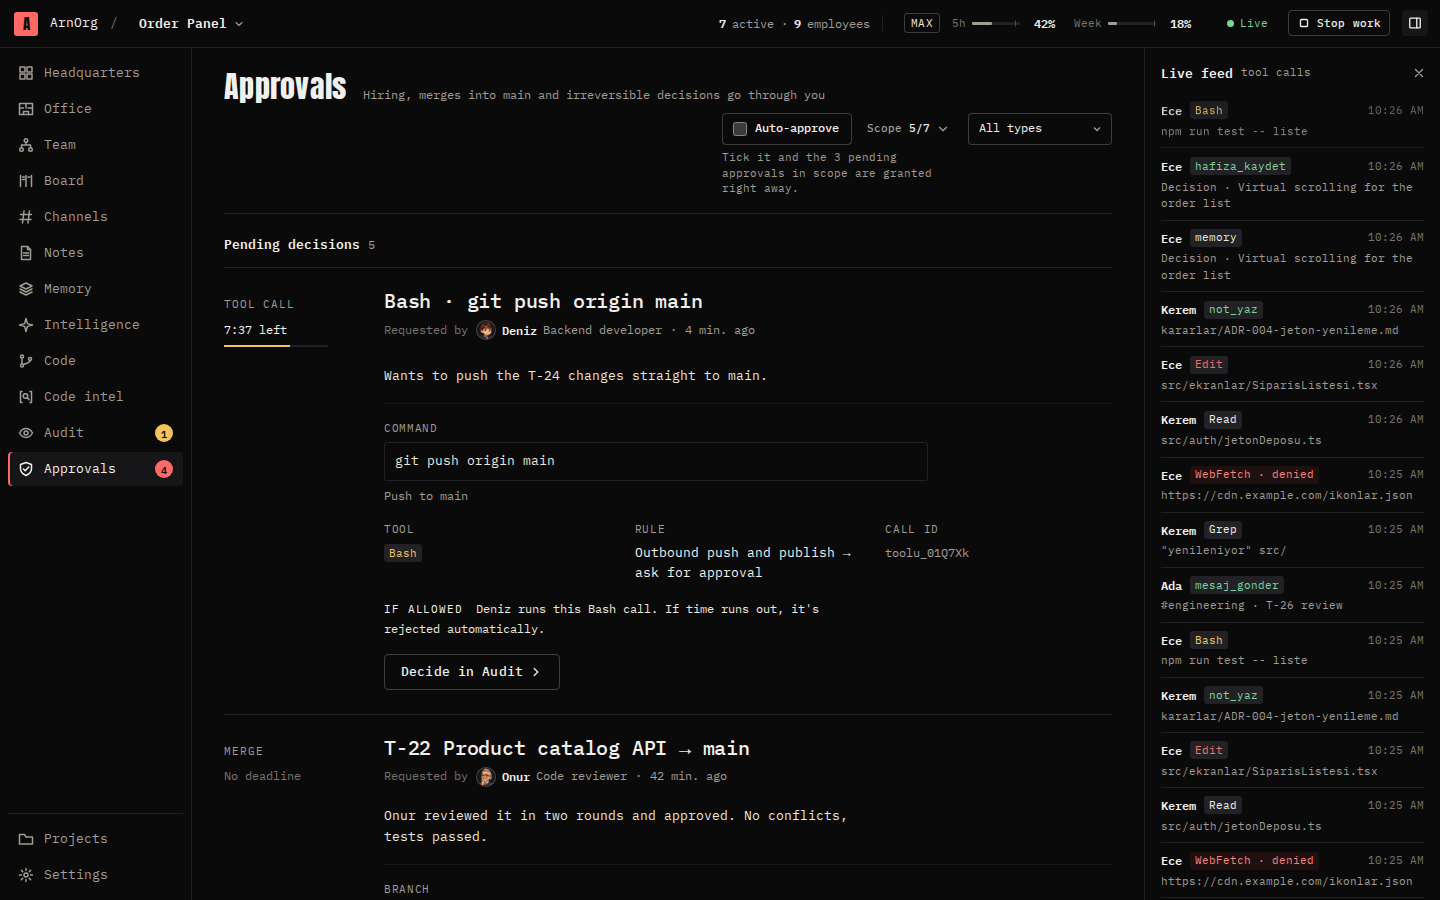
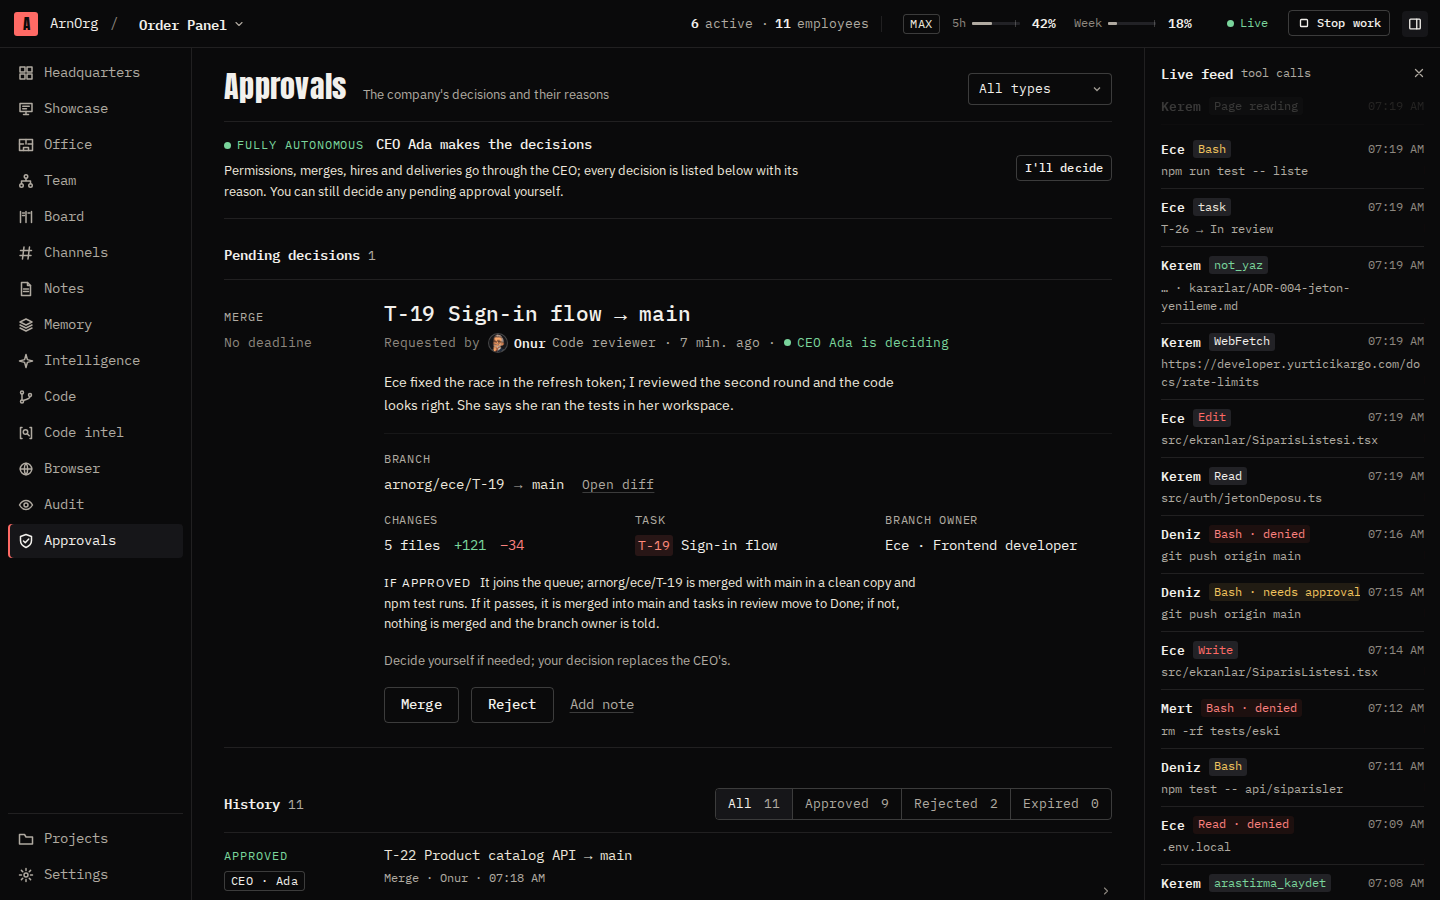
Sürüm 0.0.7
CEO karar verir (tam otonom) ve Tanıtım alanı. Sürüm notları docs/surumler/v0.0.7.md; README'lerde tam otonom ve Tanıtım maddeleri, güncellemelerin bu depodan geldiği, Tanıtım ve yeni Onaylar ekran görüntüleri (TR/EN).

diff --git a/paketler/ortak/src/index.ts b/paketler/ortak/src/index.ts
@@ -2,7 +2,7 @@
 // Çekirdek (arnorg-server) ile Stüdyo (arayüz) arasında paylaşılan tipler ve sabitler.
 // Bu dosya tek başına durur; başka dosyaya göreli import yapmaz.
 
-export const ARNORG_SURUMU = "0.0.6";
+export const ARNORG_SURUMU = "0.0.7";
 
 // ---------------------------------------------------------------------------
 // Genel

diff --git a/docs/surumler/v0.0.7.md b/docs/surumler/v0.0.7.md
@@ -1,0 +1,97 @@
+ArnOrg runs Claude Code agents like a software company: you open a project and tell the CEO what you want; the CEO agent writes the plan, hires the team, hands out the work and reports back to you. With this release the CEO also makes the decisions, so the company runs on its own and you see the results. Every project also gets a Showcase page with its README.
+
+[Türkçe aşağıda](#türkçe)
+
+## Download
+
+| System | File | Install |
+|---|---|---|
+| Windows 10/11 · x64 | `ArnOrg-Kurulum-0.0.7-x64.exe` | Recommended. Setup wizard; you can choose the install folder |
+| Windows · x64, managed deployment | `ArnOrg-0.0.7-x64.msi` | For bulk installs (no automatic updates) |
+| Linux · x64, any distribution | `ArnOrg-0.0.7-x86_64.AppImage` | No install: make it executable with `chmod +x` and run it |
+| Debian, Ubuntu · x64 | `ArnOrg-0.0.7-amd64.deb` | `sudo apt install ./ArnOrg-0.0.7-amd64.deb` |
+| Fedora, RHEL, openSUSE · x64 | `ArnOrg-0.0.7-x86_64.rpm` | `sudo dnf install ./ArnOrg-0.0.7-x86_64.rpm` |
+| Linux · arm64 | `ArnOrg-0.0.7-arm64.AppImage`, `ArnOrg-0.0.7-arm64.deb`, `ArnOrg-0.0.7-aarch64.rpm` | Same as x64 |
+
+The `latest*.yml` and `.blockmap` files are for updates; you don't need to download them.
+
+## New in 0.0.7
+
+- **The CEO decides, you see the results.** Projects now run fully autonomously by default, existing projects included:
+  - Permissions, merges, hires and the other approvals go to the CEO, who decides each one and writes down why.
+  - Your employees' requests reach the CEO as messages: tool permissions such as `git push`, merge requests, the CTO's hiring proposals, their questions and token ceilings. The CEO reads the change before approving a merge.
+  - The CEO's own proposals (hiring, letting someone go, the constitution, merges) take effect at once. A merge still has to pass the quality gate.
+  - A delivery reaches you as a result: a pop-up with what was done and how to try it, while the CEO moves on to the next goal. If something should change, tell the CEO on Headquarters.
+  - The CEO comes to you only for what a person has to do: sign-ins, payments, external accounts.
+  - **Approvals** shows who decides at the top. Every decision carries a label (the CEO's name, Board or Auto) and its reason. You can decide any pending approval yourself; your decision replaces the CEO's.
+  - If you'd rather decide yourself, go to **Project settings → Decision authority → The board decides**. Auto-approve works in that mode as before.
+  - If the CEO is paused or stops with an error, whatever waits on it comes to you.
+- **Showcase.** A new page, second in the menu, shows the project's README.md in a comfortable reading column, images included:
+  - With the first hires the CEO also takes on a Product marketer. They write the README from what the team has actually built, look at how similar projects present themselves, and update it after each delivery.
+  - Work that isn't merged yet shows under **Draft**. Once merged it is **Published**, with the time, author and commit of the last change.
+  - **Request an update** sends your note to the marketer; if there isn't one yet, the CEO hires one.
+  - In the Office, the marketer writes at the studio desk.
+
+## Requirements
+
+- **A Claude subscription** (Pro, Max or Team). ArnOrg only works with a subscription; it doesn't use API keys.
+- The first-run assistant takes care of the Claude Code sign-in, git and the GitHub CLI. On Windows, Git for Windows is recommended.
+
+## Good to know
+
+- **After updating,** every project is switched to "The CEO decides". A note in #general and in the CEO chat says so once.
+- **Updating from 0.0.6** happens by itself. **From 0.0.5,** download and install this version once from the [Releases](https://github.com/fyildirim-debug/ArnOrg/releases) page; your projects, settings and sign-ins are kept.
+- The CEO's decisions use your subscription like any other work.
+- The installers are unsigned. On the Windows SmartScreen prompt choose **More info → Run anyway**.
+- The AppImage needs FUSE 2 (Ubuntu 24.04: `sudo apt install libfuse2t64`).
+- Data: `%APPDATA%\ArnOrg` on Windows, `~/.config/ArnOrg` on Linux. Uninstalling doesn't remove user data.
+
+---
+
+## Türkçe
+
+ArnOrg, Claude Code ajanlarını bir yazılım şirketi gibi çalıştırır: projeyi siz açar, ne istediğinizi CEO'ya anlatırsınız; CEO ajanı planı yazar, ekibi işe alır, işi dağıtır ve size rapor verir. Bu sürümle kararları da CEO verir: şirket kendi kendine yürür, siz sonuçları görürsünüz. Her projenin README'sini gösteren bir Tanıtım sayfası da var.
+
+### İndirme
+
+| Sistem | Dosya | Kurulum |
+|---|---|---|
+| Windows 10/11 · x64 | `ArnOrg-Kurulum-0.0.7-x64.exe` | Önerilen. Kurulum sihirbazı; kurulum dizini seçilebilir |
+| Windows · x64, kurumsal dağıtım | `ArnOrg-0.0.7-x64.msi` | Toplu kurulum için (otomatik güncelleme yok) |
+| Linux · x64, her dağıtım | `ArnOrg-0.0.7-x86_64.AppImage` | Kurulumsuz: `chmod +x` ile çalıştırılabilir yapıp açın |
+| Debian, Ubuntu · x64 | `ArnOrg-0.0.7-amd64.deb` | `sudo apt install ./ArnOrg-0.0.7-amd64.deb` |
+| Fedora, RHEL, openSUSE · x64 | `ArnOrg-0.0.7-x86_64.rpm` | `sudo dnf install ./ArnOrg-0.0.7-x86_64.rpm` |
+| Linux · arm64 | `ArnOrg-0.0.7-arm64.AppImage`, `ArnOrg-0.0.7-arm64.deb`, `ArnOrg-0.0.7-aarch64.rpm` | x64 ile aynı |
+
+`latest*.yml` ve `.blockmap` dosyaları güncelleme içindir, indirmeniz gerekmez.
+
+### 0.0.7'de yeni
+
+- **CEO karar verir, siz sonucu görürsünüz.** Projeler artık varsayılan olarak tam otonom çalışır; var olan projeler de buna dahil:
+  - İzinler, birleştirmeler, işe alımlar ve öteki onaylar CEO'ya gider; CEO her birine karar verir ve gerekçesini yazar.
+  - Çalışanlarınızın istekleri CEO'ya mesaj olarak gelir: `git push` gibi araç izinleri, birleştirme istekleri, CTO'nun işe alım teklifleri, soruları ve token tavanları. CEO bir birleştirmeyi onaylamadan önce değişikliği okur.
+  - CEO'nun kendi teklifleri (işe alım, işten çıkarma, ana yasa, birleştirme) hemen geçerli olur. Birleştirme yine kalite kapısından geçmek zorundadır.
+  - Teslim size sonuç olarak gelir: neyin yapıldığını ve nasıl deneneceğini gösteren bir açılır pencere. CEO bu sırada sıradaki hedefe geçer. Değişmesini istediğiniz bir şey varsa Karargâh'ta CEO'ya söyleyin.
+  - CEO size yalnız bir insanın yapması gerekenler için gelir: giriş bilgileri, ödemeler, dış hesaplar.
+  - **Onaylar** en üstte kimin karar verdiğini gösterir. Her kararın bir etiketi (CEO'nun adı, Kurul ya da Otomatik) ve gerekçesi vardır. Bekleyen bir onaya kendiniz de karar verebilirsiniz; kararınız CEO'nunkinin yerine geçer.
+  - Kararları kendiniz vermek isterseniz: **Proje ayarları → Karar yetkisi → Kurul karar verir**. Otomatik onay bu kipte eskisi gibi çalışır.
+  - CEO duraklatılır ya da hatayla durursa onu bekleyen işler size gelir.
+- **Tanıtım.** Menünün ikinci sırasındaki yeni sayfa, projenin README.md'sini görselleriyle birlikte okunaklı bir sütunda gösterir:
+  - CEO ilk işe alımlarla birlikte bir Tanıtım uzmanı da alır. Uzman README'yi ekibin gerçekten yaptıklarından yazar, benzer projelerin kendini nasıl anlattığına bakar ve her teslimden sonra günceller.
+  - Henüz birleşmemiş iş **Taslak** altında görünür. Birleşince **Yayında** olur; son değişikliğin zamanı, yazarı ve commit'iyle.
+  - **Güncellenmesini iste** notunuzu uzmana iletir; uzman henüz yoksa CEO bir tane işe alır.
+  - Ofiste uzman yazarken stüdyo masasında çalışır.
+
+### Gerekenler
+
+- **Claude aboneliği** (Pro, Max ya da Team). ArnOrg yalnız abonelikle çalışır; API anahtarı kullanmaz.
+- Claude Code girişini, git'i ve GitHub CLI'ı ilk açılış asistanı halleder. Windows'ta Git for Windows önerilir.
+
+### Bilinmesi gerekenler
+
+- **Güncellemeden sonra** her proje "CEO karar verir" kipine geçer. #genel'de ve CEO sohbetinde bunu bir kez söyleyen bir not görünür.
+- **0.0.6'dan güncelleme** kendiliğinden olur. **0.0.5'ten** bu sürümü [Sürümler](https://github.com/fyildirim-debug/ArnOrg/releases) sayfasından bir kez indirip kurun; projeleriniz, ayarlarınız ve girişleriniz korunur.
+- CEO'nun kararları da öteki işler gibi aboneliğinizi kullanır.
+- Kurulum dosyaları imzasızdır. Windows SmartScreen uyarısında **Ek bilgi → Yine de çalıştır** seçin.
+- AppImage için FUSE 2 gerekir (Ubuntu 24.04: `sudo apt install libfuse2t64`).
+- Veriler: Windows'ta `%APPDATA%\ArnOrg`, Linux'ta `~/.config/ArnOrg`. Kaldırma kullanıcı verisini silmez.

diff --git a/README.md b/README.md
@@ -2,7 +2,7 @@
 
 **English** · [Türkçe](README.tr.md)
 
-A software company built from Claude Code agents. You open a project; the CEO agent writes the plan, hires the team, hands out the work and reports back to you. Every tool call of every agent passes through ArnOrg's gate.
+A software company built from Claude Code agents. You open a project and tell the CEO what you want; the CEO agent writes the plan, hires the team, hands out the work, makes the decisions and reports back to you. Every tool call of every agent passes through ArnOrg's gate.
 
 ![Headquarters](docs/gorseller/en/karargah.png)
 
@@ -40,10 +40,12 @@ A software company built from Claude Code agents. You open a project; the CEO ag
   - Each agent receives the rules within its role and authority.
   - You can review, edit or switch off any rule.
 - **Headquarters.** A one-to-one chat with the CEO in #ceo and live channels with typing indicators and clickable links. #general announces when work starts, goes to review and finishes.
+- **The CEO decides, you see the results.** By default the company runs fully autonomously. Permissions, merges, hires and the other approvals go through the CEO, and every decision is listed with its reason. The CEO asks you only for what a person has to do: sign-ins, payments, external accounts. You can decide any pending approval yourself, or switch a project back to **The board decides** in its settings.
 - **Approvals.**
   - Approval types: hiring, dismissal, merges to main, constitution changes, tool requests and deliveries.
-  - Each one shows its reasoning and what happens if you approve.
-  - An **Auto-approve** checkbox approves for you, limited to the types you choose.
+  - Each one shows its reasoning, who decided and what happens if it's approved.
+  - When the board decides, an **Auto-approve** checkbox approves for you, limited to the types you choose.
+- **Showcase.** The project's README.md on its own page, second in the menu. A product marketer writes it from what the team has actually built and updates it after each delivery; a draft shows until it's merged. **Request an update** asks for a refresh.
 - **Tested before it lands.** Approved merges go through a per-project queue and a quality gate: the branch is merged in a separate workspace and the project's test command runs. Only work that passes reaches your branch; the approval card shows the test output and the diff.
 - **Work within your limits.** A cap on how many agents work at once, a token ceiling per task, and agents that pick up where they left off when ArnOrg restarts.
 - **Agents that research.** A built-in meta search, like SearXNG, queries Bing, DuckDuckGo, Brave, Wikipedia, Stack Overflow, GitHub, npm, MDN, Hacker News, arXiv and more at once. A built-in page reader, like r.jina.ai, turns web pages, PDFs and JSON into clean Markdown. Agents save what they find as research notes with sources. Each employee's abilities can be switched on and off, and a Researcher role is ready to hire.
@@ -52,13 +54,13 @@ A software company built from Claude Code agents. You open a project; the CEO ag
 - **Point at what's wrong.** In the desktop app's browser, pick an element on your project's page and leave a note; it keeps a screenshot. **Get it all done** sends every note to the CEO, who turns them into tasks.
 - **The Office comes alive.** A library, a lab and a studio join the floor: agents walk to the library to research, to the lab to run tests and to the studio to present their work. Speech bubbles, celebrations, a live camera and an event ticker make it something to watch.
 - **Model versions, and Fable.** Models show their versions (Fable 5.1, Opus 5.5, Sonnet 5.5, Haiku 4.5), read from Claude Code; new CEOs use Fable.
-- **Updates itself** from the public releases repository.
+- **Updates itself** from this repository's releases.
 - **Important moments reach you anywhere.** A pop-up appears on whichever screen you're on. When the window is in the background, you also get a desktop notification and the taskbar flashes.
-- **A team that changes over time.** The CEO can propose new hires or a dismissal later in the project. A dismissal needs your approval, and the person's work and knowledge pass to a successor.
+- **A team that changes over time.** The CEO can hire or let someone go later in the project; when the board decides, both need your approval. A departing employee's work and knowledge pass to a successor.
 - **Delivery.** When the project is done, the CEO hands it over with test steps, the run command and the address. Your feedback goes back to the CEO as work.
 - **Everything else from 0.0.1:**
   - per-project memory under `.arnorg/`;
-  - a git worktree per agent; only work the board approves reaches the main branch;
+  - a git worktree per agent; only approved work that passes the quality gate reaches the main branch;
   - live audit with policies, interjection and stopping;
   - the Office, a live 2D view of the company;
   - a built-in VS Code workbench;
@@ -75,6 +77,7 @@ A software company built from Claude Code agents. You open a project; the CEO ag
 | First run | ![First run](docs/gorseller/en/ilk-kurulum.png) |
 | Office | ![Office](docs/gorseller/en/ofis.png) |
 | Channels | ![Channels](docs/gorseller/en/kanallar.png) |
+| Showcase | ![Showcase](docs/gorseller/en/tanitim.png) |
 | Approvals | ![Approvals](docs/gorseller/en/onaylar.png) |
 | Intelligence | ![Intelligence](docs/gorseller/en/zeka.png) |
 | Open from GitHub | ![Open from GitHub](docs/gorseller/en/github.png) |
